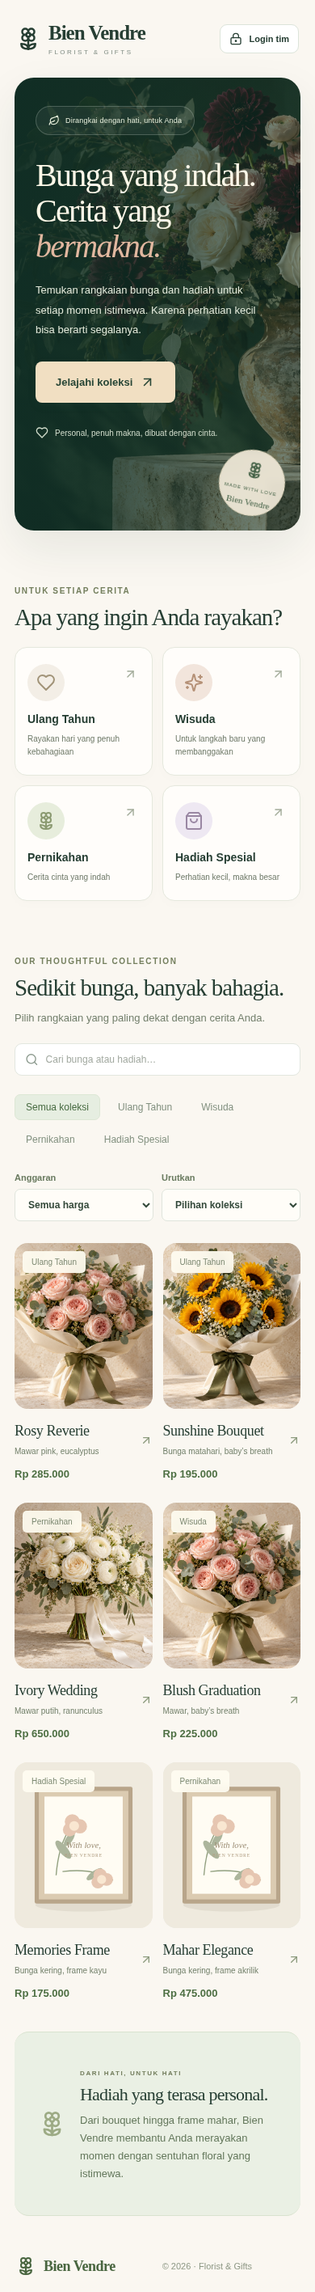
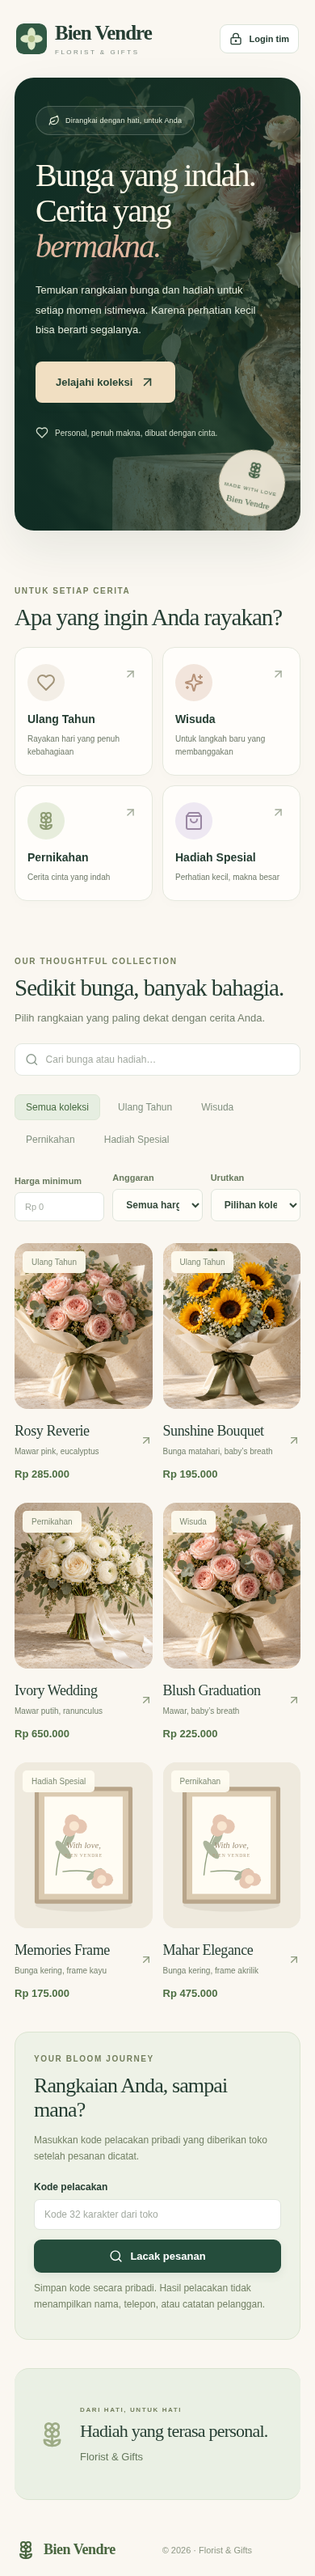
fix: serve local uploads and document operational feature validation

diff --git a/tests/e2e/retail.spec.js b/tests/e2e/retail.spec.js
@@ -44,6 +44,13 @@ test('admin can upload a real photo into the product form; store settings form i
       .setInputFiles({ name: 'foto.png', mimeType: 'image/png', buffer: image });
     await expect(page.getByLabel('URL foto', { exact: true })).toHaveValue(/^\/uploads\/.+\.webp$/);
     photo = await page.getByLabel('URL foto', { exact: true }).inputValue();
+    await expect
+      .poll(() =>
+        page.locator('.upload-preview').evaluate((img) => img.complete && img.naturalWidth > 0),
+      )
+      .toBe(true);
+    const served = await page.context().request.get(photo);
+    expect(served.headers()['content-type']).toContain('image/webp');
     await page.getByRole('button', { name: 'Simpan', exact: true }).click();
     await expect(page.getByRole('dialog')).toHaveCount(0);
     await expect(page.locator('tr').filter({ hasText: name })).toBeVisible();

diff --git a/web/vite.config.js b/web/vite.config.js
@@ -10,6 +10,9 @@ export default defineConfig({
     port: Number(process.env.WEB_PORT || 3000),
     strictPort: true,
     open: process.env.OPEN_BROWSER === '1' ? '/catalog' : false,
-    proxy: { '/api': `http://127.0.0.1:${process.env.API_PORT || 3001}` },
+    proxy: {
+      '/api': `http://127.0.0.1:${process.env.API_PORT || 3001}`,
+      '/uploads': `http://127.0.0.1:${process.env.API_PORT || 3001}`,
+    },
   },
 });

diff --git a/docs/FEATURE-AUDIT.md b/docs/FEATURE-AUDIT.md
@@ -1,0 +1,43 @@
+# Audit fitur operasional lokal
+
+## P1 — Pengaturan toko
+
+Sebelumnya profil/kontak dibaca dari environment. Sekarang admin dapat mengubah nama, alamat, deskripsi, WhatsApp, Instagram, dan logo pada Pengaturan. Nilai disimpan di tabel singleton `store_settings` melalui `PUT /api/store`; katalog dan PDF membaca pengaturan tersebut. Konfigurasi lama tetap menjadi fallback sampai admin menyimpan pengaturan. Owner hanya membaca profil toko.
+
+Nomor WhatsApp berupa angka dengan kode negara dan URL Instagram dibatasi ke profil instagram.com. Tidak perlu restart untuk perubahan data; refresh katalog yang sudah terbuka untuk mengambil nilai terbaru.
+
+## P1 — Laporan owner
+
+Halaman laporan mempunyai grafik periode. Agregasi harian untuk rentang sampai 62 hari dan bulanan untuk rentang lebih panjang; hanya tanggal/bulan dengan transaksi yang ditampilkan. Total grafik sama dengan total transaksi pada periode terpilih.
+
+PDF memakai nama toko, periode, waktu cetak WIB, tabel kolom tetap, baris berselang warna, header berulang, jumlah transaksi/total dan nomor halaman. Skenario banyak halaman diuji dengan 45 transaksi berisi nama panjang. Periode kosong tetap menghasilkan dokumen yang valid.
+
+## P2 — Pelanggan
+
+Admin dan owner dapat membuka halaman Pelanggan; endpoint hanya GET. Empat kartu mencakup total pelanggan, pelanggan dengan lebih dari satu pesanan tercatat, total nilai pesanan selesai, dan pesanan aktif. Metrik dihitung dari seluruh database. Tabel menampilkan maksimal 500 pelanggan terbaru, dikelompokkan berdasarkan nomor telepon. Tombol Chat membuka kanal WhatsApp, tidak mengirim pesan otomatis.
+
+## P2 — Rentang harga dan tracking
+
+Katalog dapat menggabungkan harga minimum dengan batas maksimum serta urutan harga. Server menolak rentang terbalik dan nilai tidak valid.
+
+Setiap pesanan mempunyai kode acak pribadi 32 karakter yang terpisah dari nomor berurutan BV-xxxx. Admin/owner dapat menyalinnya dari detail pesanan dan membagikannya hanya kepada pelanggan terkait. Widget katalog menerima kode tersebut melalui POST; pencarian dibatasi frekuensinya dan respons tidak dicache. Hasil hanya berisi nomor referensi, status, tanggal pesanan dan jadwal. Nama, nomor telepon, nilai pembayaran, serta catatan pribadi tidak diungkapkan.
+
+Kode adalah akses baca pribadi: jangan dibagikan di tempat publik. Ini merupakan status proses pesanan toko, bukan integrasi pelacakan kurir/GPS.
+
+## P3 — Upload foto dan password
+
+Upload multipart tersedia melalui `POST /api/uploads`, khusus admin dan dilindungi sesi/CSRF. Input JPEG/PNG/WebP maksimal 5 MB dan 25 megapiksel. Isi berkas benar-benar didecode, bukan dipercaya dari ekstensi/MIME. SVG/HTML dan input rusak ditolak. Foto dirotasi sesuai orientasi, diperkecil hingga 1600×1600 tanpa memperbesar, dikonversi WebP, dan metadata asli tidak dipertahankan. Nama file acak; nama asli tidak dipakai sebagai path.
+
+Foto tersimpan di `.local/uploads` dan disajikan melalui `/uploads/`. Form produk dan logo toko dapat mengunggah dari perangkat atau memakai URL. Foto yang diunggah bersifat publik seperti foto katalog; jangan mengunggah dokumen pribadi. Upload yang dibatalkan atau foto lama belum dihapus otomatis agar tidak menghapus berkas yang masih dipakai.
+
+Form ganti password admin/owner sudah tersedia sebelumnya pada panel Keamanan; dipertahankan tanpa membuat form duplikat. Password lama wajib benar, password baru di-hash bcrypt dan seluruh sesi berakhir setelah pergantian. Pemulihan tetap dapat diuji melalui file lokal tanpa akun email.
+
+## Data, update dan backup
+
+Migrasi 003 menambah tabel pengaturan dan kode tracking, tanpa menghapus data sebelumnya. Setelah memperbarui kode, hentikan server dan jalankan `npm.cmd ci`, lalu buka launcher `Mulai-BienVendre.cmd`. Launcher menjalankan setup/migrasi sebelum mode dev.
+
+Backup PGlite melalui `npm run db:backup` hanya menyimpan database. Salin juga `.local/uploads` secara terpisah saat server berhenti; database menyimpan URL foto, bukan byte foto. Jangan menghapus `.env`, folder database, atau upload saat mengganti kode. Export JSON owner bukan backup penuh. Import database lama yang belum memiliki tracking menghasilkan kode baru melalui default skema; snapshot database mempertahankan kode yang sudah ada.
+
+## Validasi
+
+16 tes backend/penyimpanan dan 20 tes browser desktop/HP lulus. Pemeriksaan mencakup role, settings, validasi rentang, tracking tanpa PII, upload isi palsu/oversize, foto nyata pada form, metrik owner, grafik, PDF banyak halaman, serta alur lama. PDF contoh dirender dan teksnya diperiksa pada runner. Pengujian dilakukan pada Linux cloud; klik launcher pada Windows belum dijalankan langsung. Deployment tetap ditunda.

diff --git a/docs/VALIDATION.md b/docs/VALIDATION.md
@@ -2,8 +2,8 @@
 
 Deployment ditunda. Tidak ada layanan hosting dibuat atau situs internet diterbitkan.
 
-- Backend/penyimpanan: 15 tes lulus, 0 gagal/skipped. Termasuk alur verifikasi/reset melalui file lokal tanpa layanan email, penolakan mode surat lokal pada production, token sekali pakai/kedaluwarsa, pencabutan sesi, pesanan/penjualan, dan ekspor owner.
-- Browser: 14 tes desktop/HP lulus. Meliputi katalog/anggaran, dashboard dan hak akses, agenda, data/JSON, PDF, penjelasan surat lokal, dan tautan reset tidak valid.
+- Backend/penyimpanan: 16 tes lulus, 0 gagal/skipped. Termasuk alur verifikasi/reset melalui file lokal tanpa layanan email, penolakan mode surat lokal pada production, token sekali pakai/kedaluwarsa, pencabutan sesi, pesanan/penjualan, dan ekspor owner.
+- Browser: 20 tes desktop/HP lulus. Meliputi katalog/anggaran, dashboard dan hak akses, agenda, data/JSON, PDF, penjelasan surat lokal, dan tautan reset tidak valid.
 - Build dan pemeriksaan format/whitespace lulus.
 - Mode dev berjalan pada localhost; frontend Vite memakai hot reload dan backend Node watch. Server non-production secara default hanya bind loopback.
 - Pengunci database satu proses, backup/restore folder baru, dan perlindungan data lama tetap dipertahankan.
@@ -19,3 +19,9 @@ Runner pengujian adalah Linux, Node.js 24.19, PGlite dan Chromium. Eksekusi klik
 Pesan disimpan di `.local/mail` di luar direktori public/dist dan diabaikan Git. File dibuat dengan permission privat pada sistem yang mendukungnya; tidak ada endpoint untuk membaca kotak surat tersebut. Pesan berisi tautan pribadi dan hanya untuk pengujian di laptop, bukan bukti akses inbox email nyata. Pengguna menghapus pesan yang tidak diperlukan dan tidak membagikan folder/token. Mode ini tidak dipakai untuk production.
 
 Konfigurasi Render/Neon/Resend yang sebelumnya disiapkan hanya referensi masa depan. Tidak ada pengiriman email nyata atau verifikasi provider online dalam release lokal ini.
+
+## Audit fitur operasional
+
+Settings, metrik pelanggan, rentang harga, tracking pribadi, upload foto, grafik periode dan PDF banyak halaman telah diperiksa. Lihat FEATURE-AUDIT.md. PDF contoh berhasil diekstrak dan dirender; hasil tabel/header/footer diperiksa. Foto dan data tes sementara dibersihkan. Pengujian tidak melakukan deploy.
+
+Proxy Vite `/uploads` juga diperiksa secara eksplisit: tes upload desktop/HP menunggu gambar terdecode (`naturalWidth > 0`) dan memeriksa HTTP `image/webp`, bukan sekadar URL yang tersimpan. Kedua tes tersebut lulus setelah penambahan proxy.

diff --git a/README.md b/README.md
@@ -222,3 +222,15 @@ docker compose stop
 Data PostgreSQL mode ini terpisah dari folder PGlite. Pertahankan data lama sebelum berpindah mode.
 
 </details>
+
+## Pembaruan fitur operasional
+
+- **Pengaturan toko (admin):** nama, alamat, deskripsi, logo, WhatsApp, dan Instagram bisa diubah dari dashboard; tersimpan di database.
+- **Laporan owner:** grafik tren mengikuti periode dan PDF berupa tabel dengan header berulang serta nomor halaman.
+- **Pelanggan:** empat kartu statistik dan akses baca untuk owner; ringkasan tidak lagi terbatas pada 500 pesanan.
+- **Katalog:** harga minimum + maksimum dan widget pelacakan status menggunakan kode pribadi dari detail pesanan.
+- **Foto produk/logo:** upload JPEG/PNG/WebP dari perangkat, maksimal 5 MB; tersimpan sebagai WebP di `.local/uploads`. Ganti password tetap tersedia di Pengaturan keamanan.
+
+Setelah mengunduh pembaruan, hentikan server, jalankan `npm.cmd ci` sekali untuk memasang dependency baru, lalu buka `Mulai-BienVendre.cmd`. Data lama dipertahankan oleh migrasi. Backup juga folder `.local/uploads` selain database.
+
+Lihat [audit fitur dan batas penggunaan](docs/FEATURE-AUDIT.md). Fokus tetap localhost; tidak perlu akun hosting atau deploy.
